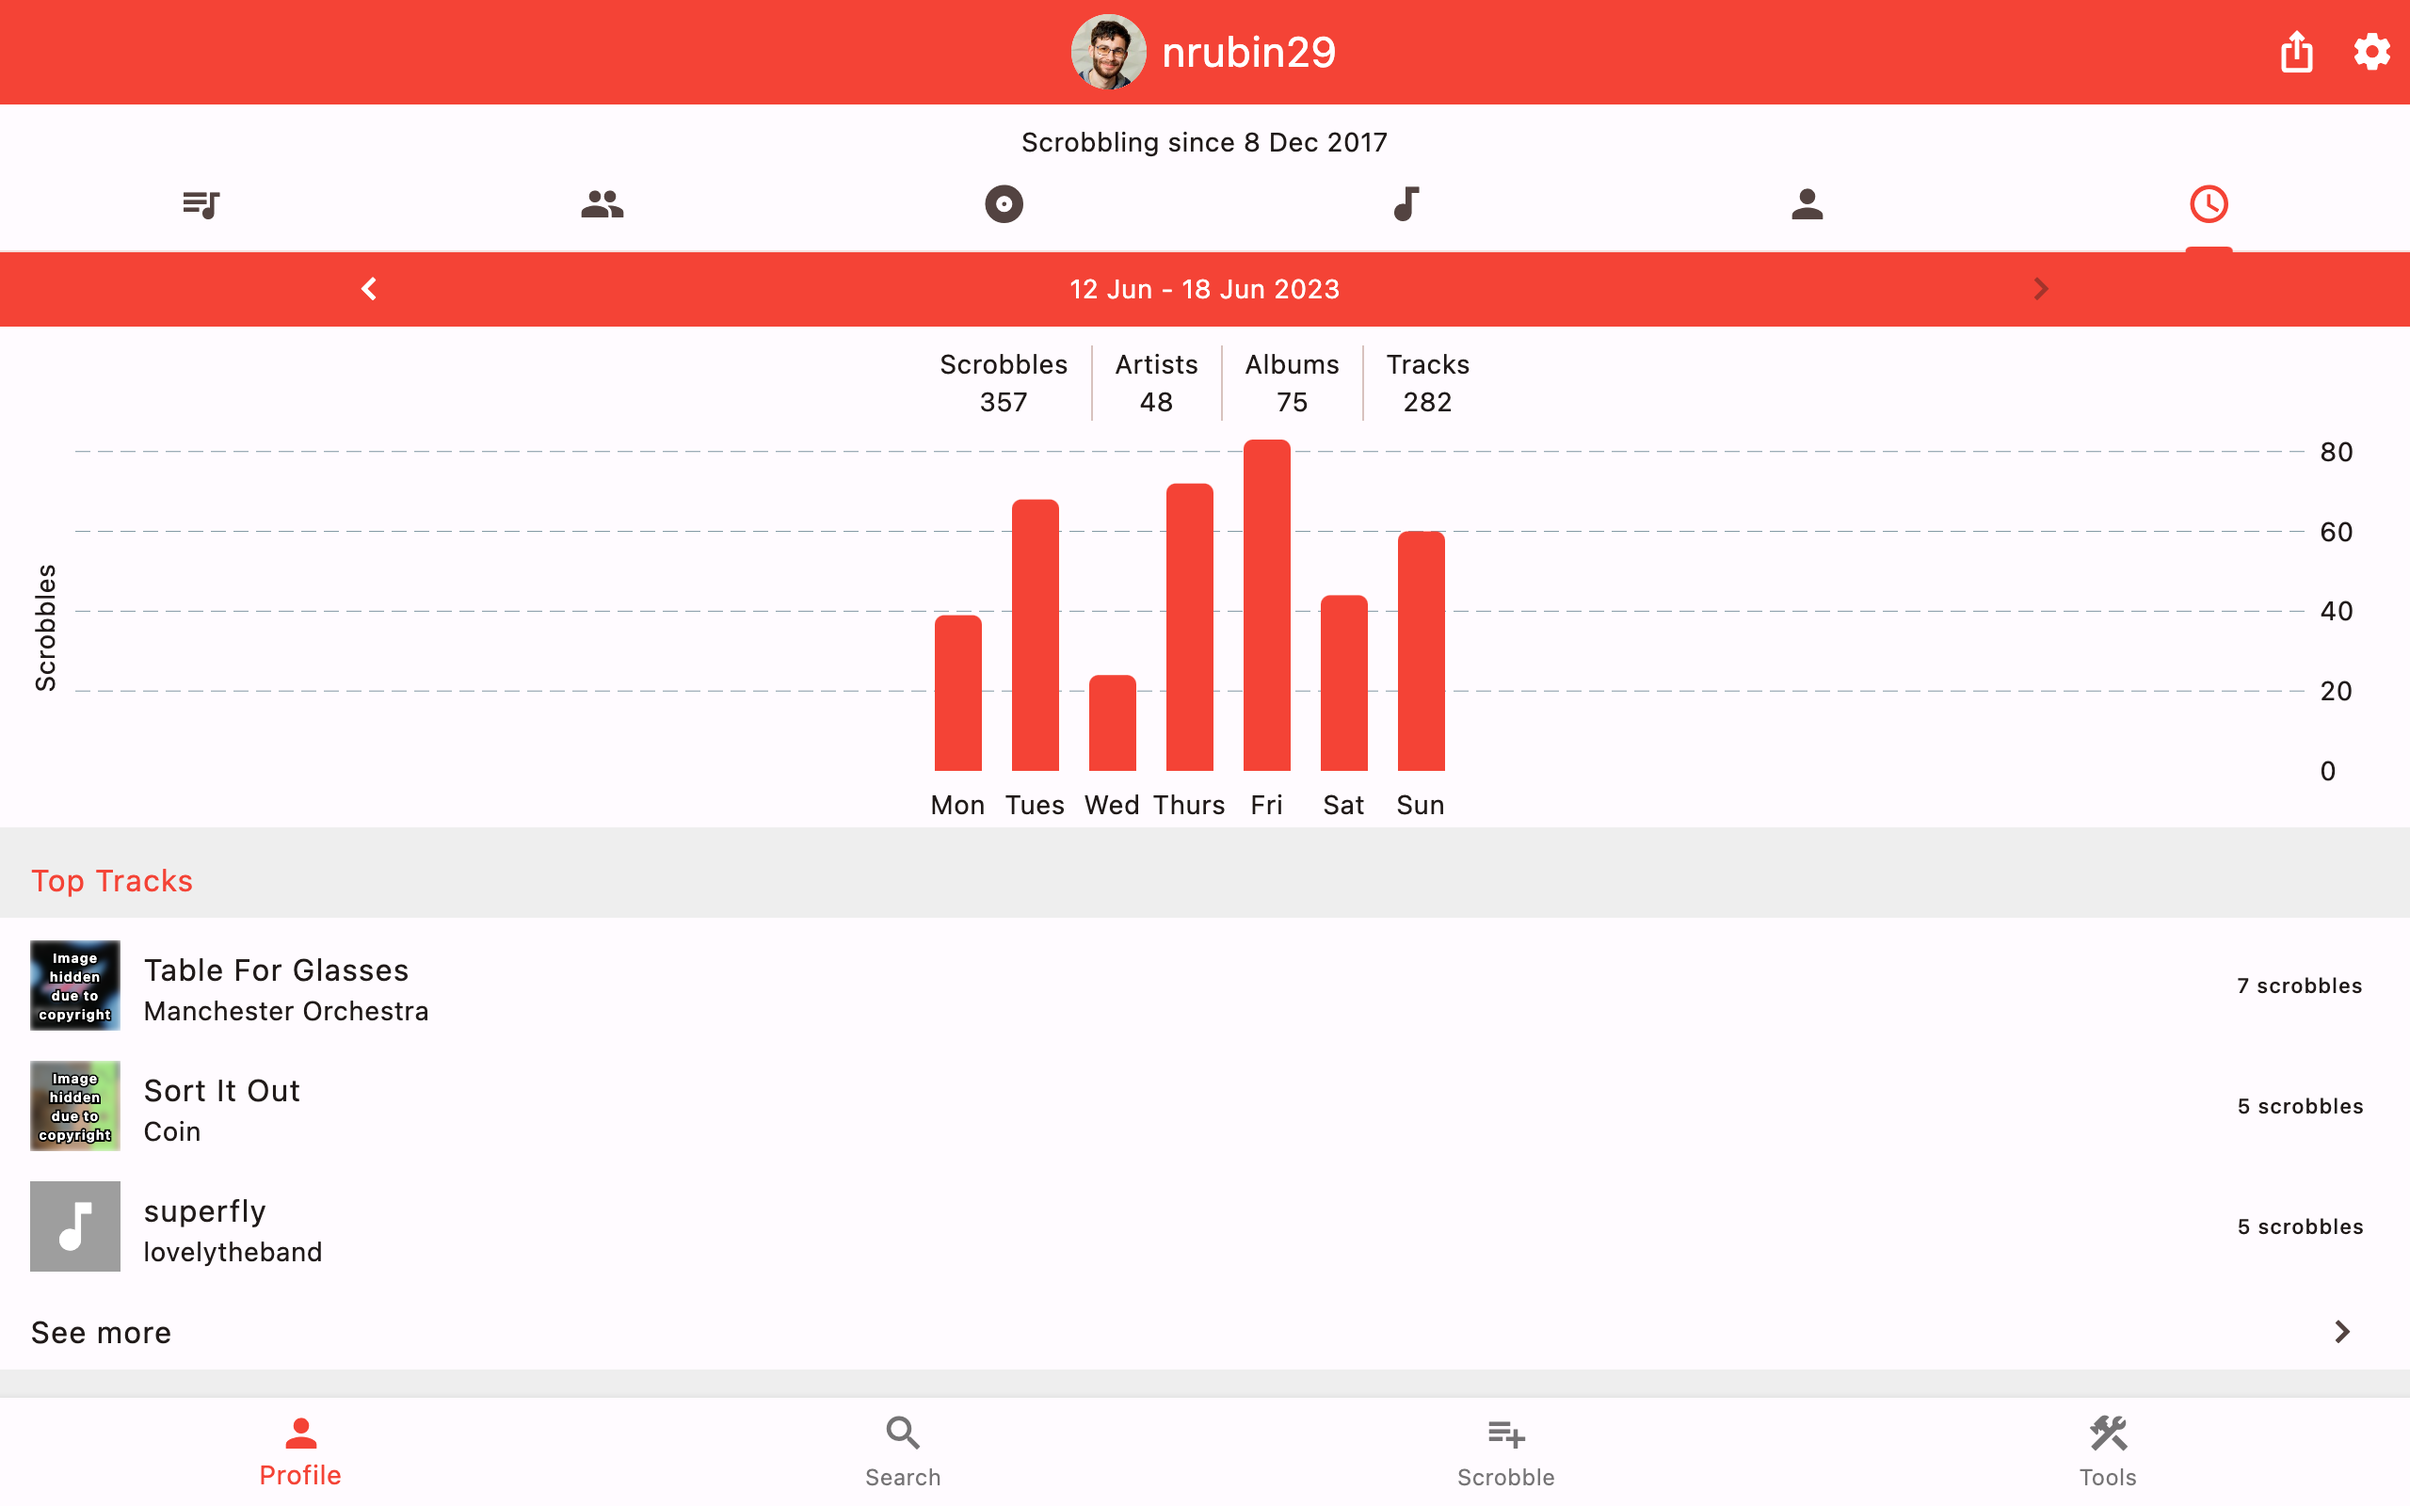
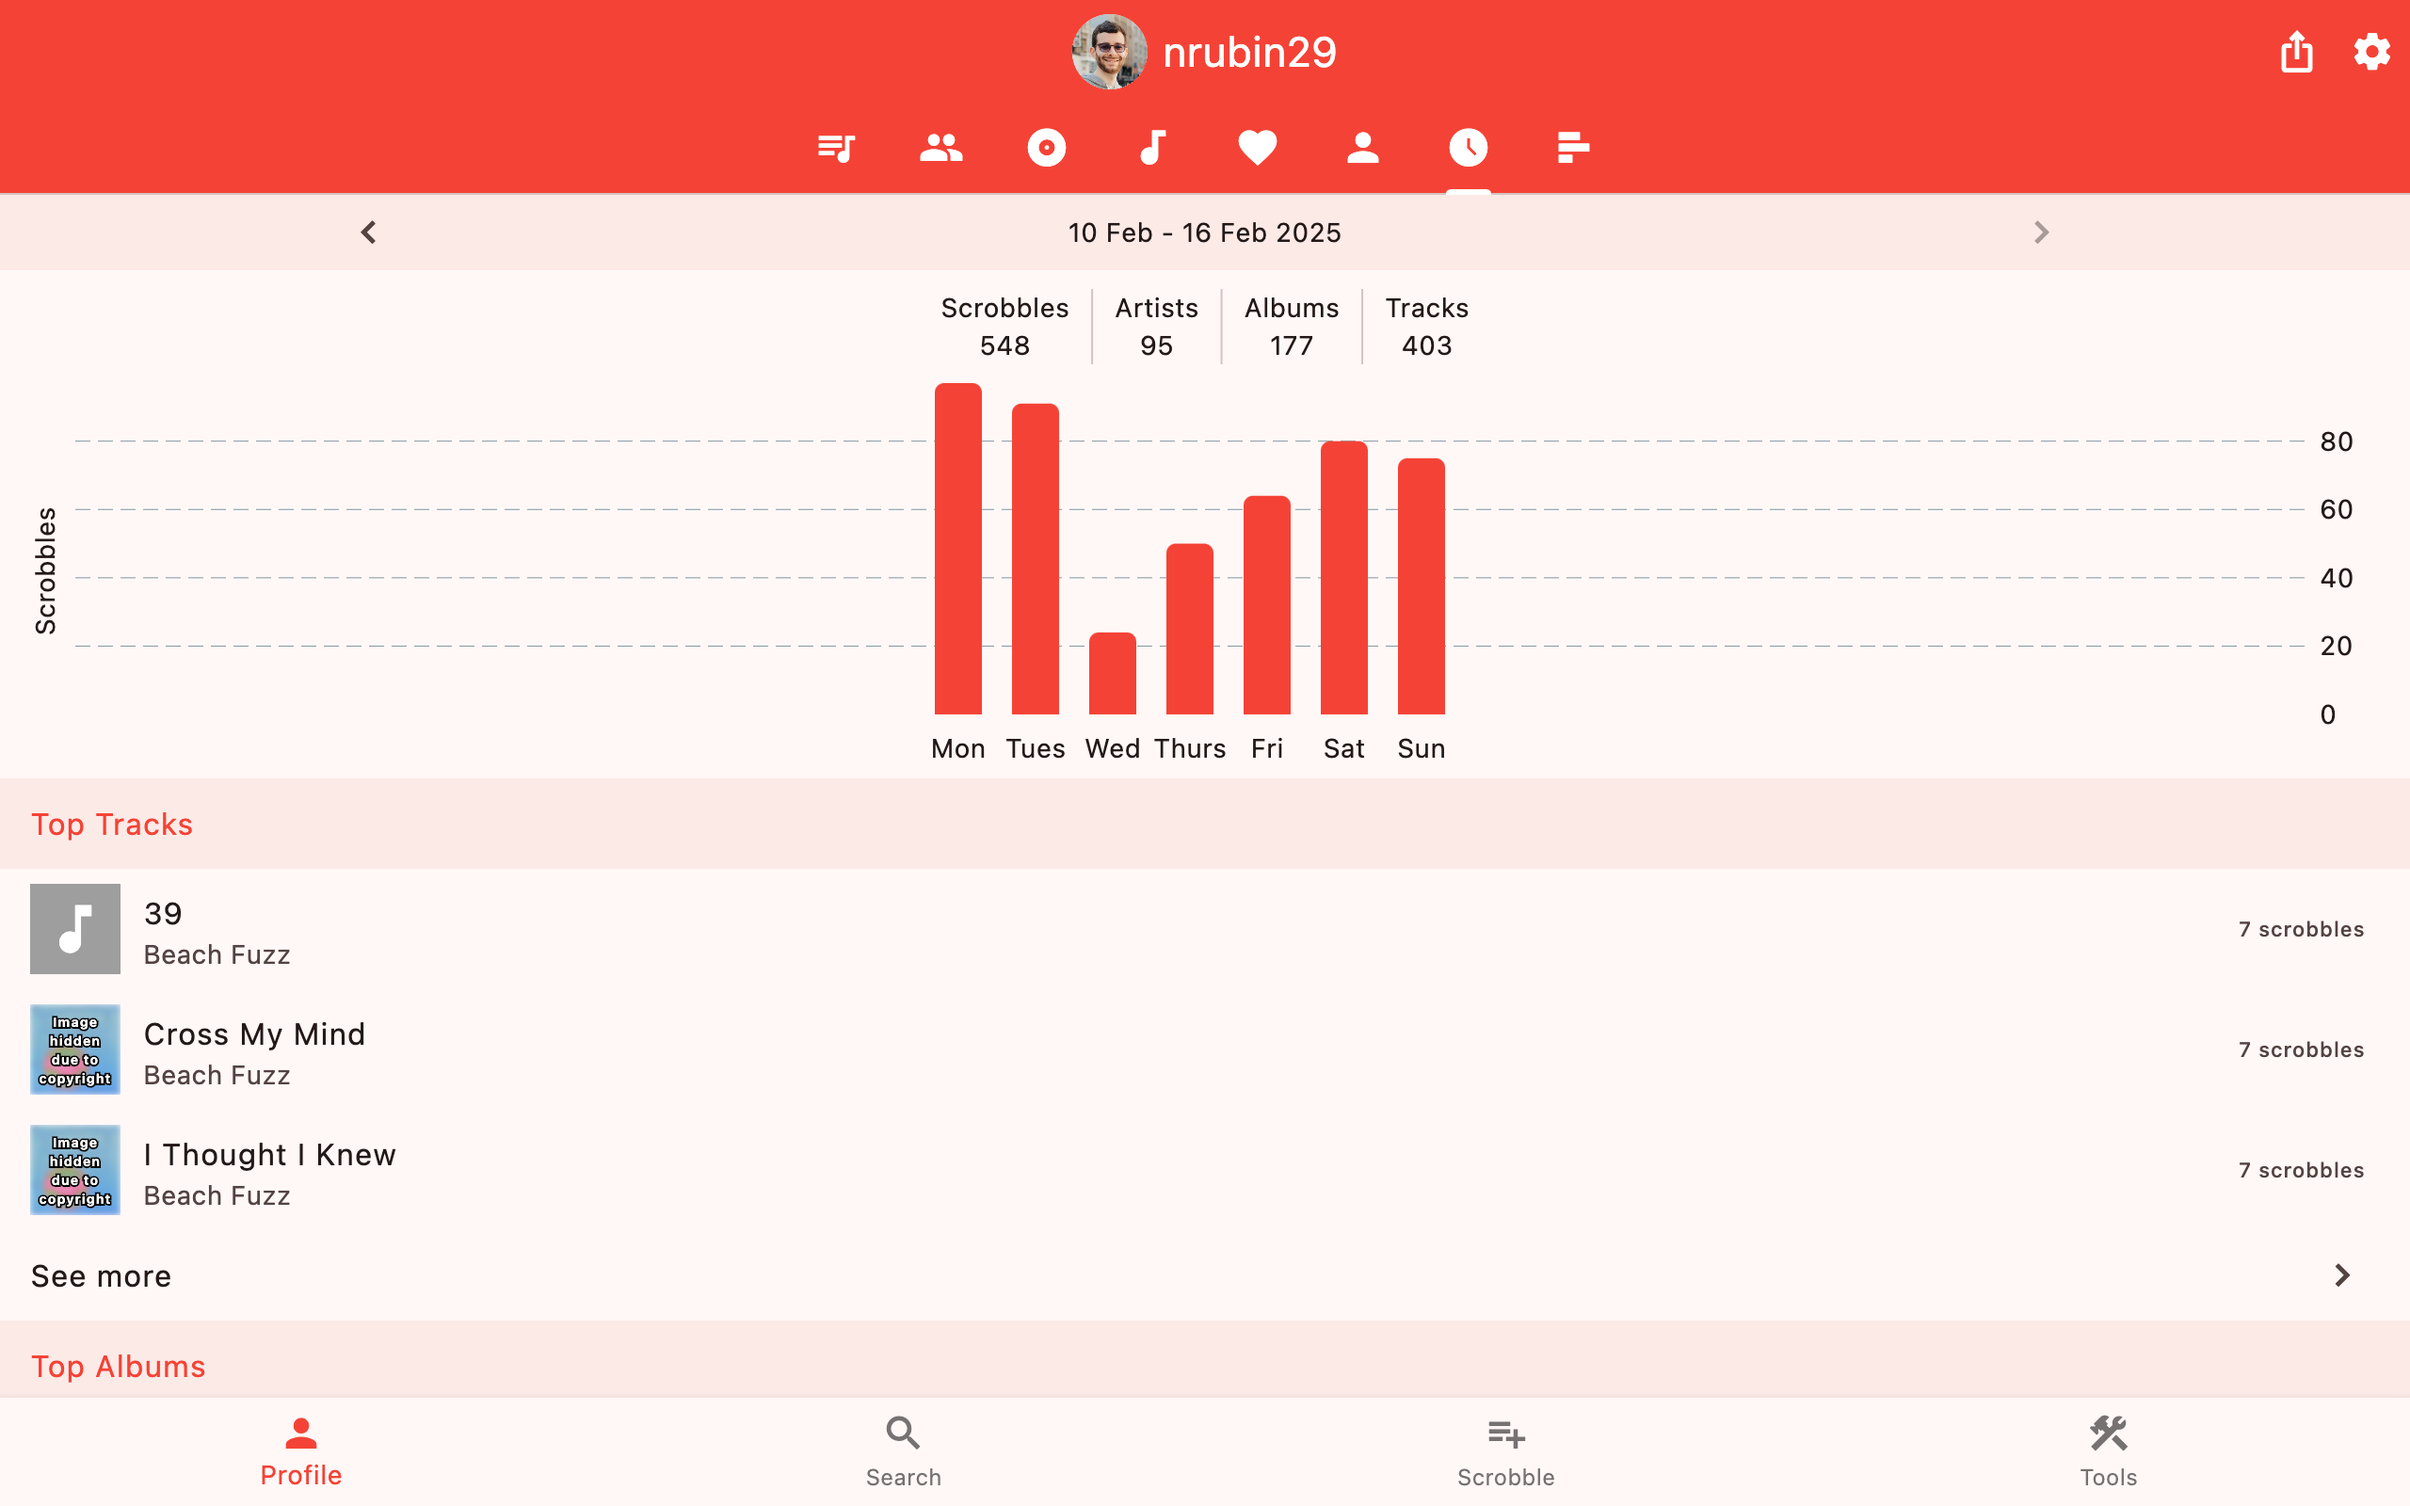
Update screenshots

diff --git a/integration_test/screenshot_test.dart b/integration_test/screenshot_test.dart
@@ -93,18 +93,18 @@ Future<void> main() async {
 
     final formFields =
         find.byWidgetPredicate((widget) => widget is TextFormField);
-    await tester.enterText(formFields.at(0), 'A Lack of Color');
-    await tester.enterText(formFields.at(1), 'Death Cab for Cutie');
-    await tester.enterText(formFields.at(2), 'Transatlanticism');
+    await tester.enterText(formFields.at(0), 'Trapdoor');
+    await tester.enterText(formFields.at(1), 'The Dear Hunter');
+    await tester.enterText(formFields.at(2), 'The Color Spectrum');
     await tester.testTextInput.receiveAction(TextInputAction.done);
     await tester.pumpAndSettle();
 
     await tester.saveScreenshot('2_scrobble');
   });
 
-  testWidgets('Weekly track screen', (tester) async {
+  testWidgets('Weekly chart screen', (tester) async {
     await pumpWidget(tester, const MainView(username: testName));
-    await tester.tap(find.byIcon(Icons.access_time));
+    await tester.tap(find.byIcon(Icons.access_time_filled));
     await tester.pumpAndSettle();
     await tester.saveScreenshot('3_weekly_chart');
   });
@@ -140,7 +140,7 @@ Future<void> main() async {
   });
 
   testWidgets('Artist screen', (tester) async {
-    final artist = await Lastfm.getArtist(ConcreteBasicArtist('Mae'));
+    final artist = await Lastfm.getArtist(ConcreteBasicArtist('Valley'));
 
     await pumpWidget(tester, ArtistView(artist: artist), asPage: true);
     await tester.saveScreenshot('6_artist');
@@ -148,7 +148,7 @@ Future<void> main() async {
 
   testWidgets('Album screen', (tester) async {
     final album =
-        await Lastfm.getAlbum(FullConcreteAlbum('Deas Vail', 'Deas Vail'));
+        await Lastfm.getAlbum(FullConcreteAlbum('Always Repeating', 'Runnner'));
 
     await pumpWidget(tester, AlbumView(album: album), asPage: true);
     await tester.saveScreenshot('7_album');
@@ -156,7 +156,7 @@ Future<void> main() async {
 
   testWidgets('Album scrobble screen', (tester) async {
     final album =
-        await Lastfm.getAlbum(FullConcreteAlbum('Deas Vail', 'Deas Vail'));
+        await Lastfm.getAlbum(FullConcreteAlbum('The Everglow', 'Mae'));
 
     await pumpWidget(tester, BatchScrobbleView(entity: album),
         widgetBehindModal: AlbumView(album: album));

diff --git a/lib/widgets/entity/entity_display.dart b/lib/widgets/entity/entity_display.dart
@@ -400,7 +400,9 @@ class EntityDisplayState<T extends Entity> extends State<EntityDisplay<T>>
     if (_hasException || items.isEmpty) {
       // The Stack is a hack to make the RefreshIndicator work.
       return Stack(children: [
-        ListView(),
+        ListView(
+          shrinkWrap: !widget.scrollable,
+        ),
         if (_hasException)
           ErrorComponent(
             error: _exception!,
